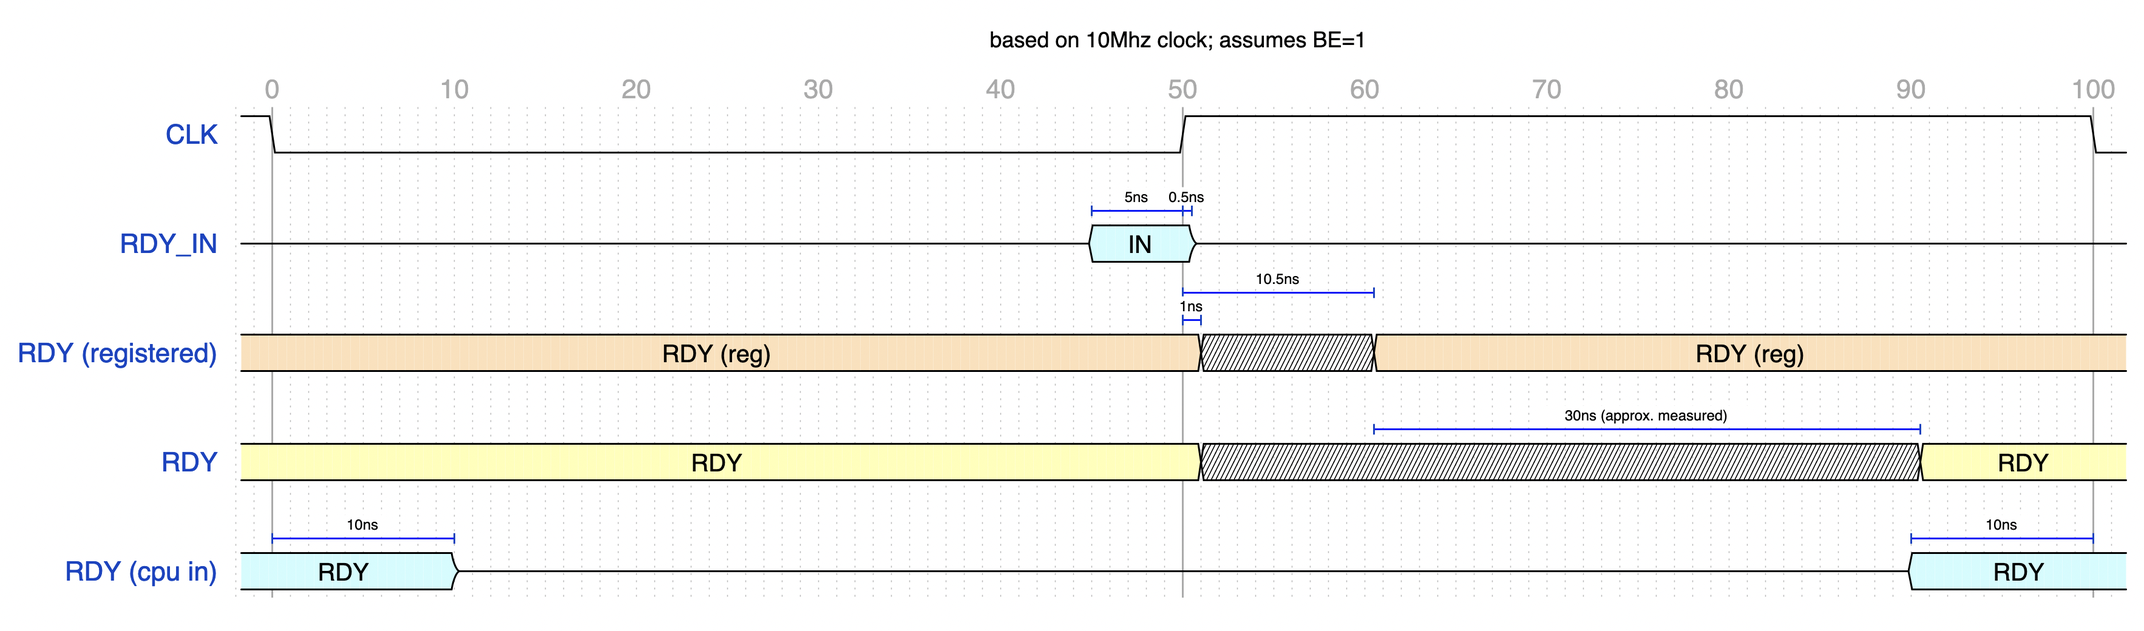
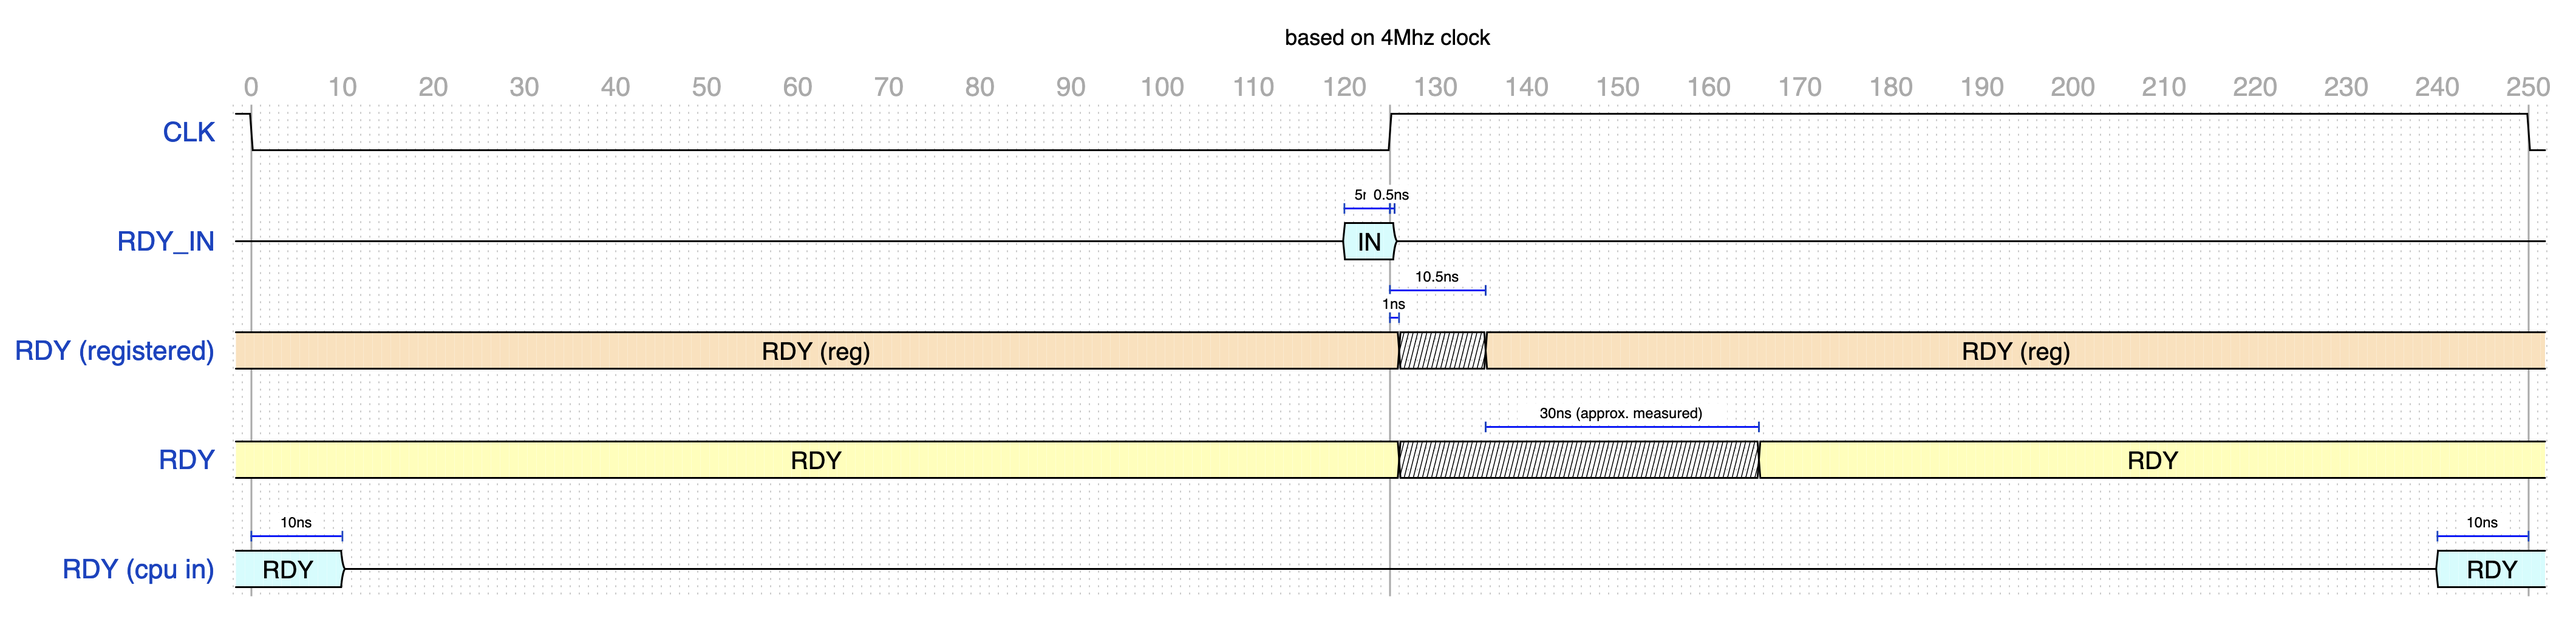
Update RDY timing

diff --git a/README.md b/README.md
@@ -474,15 +474,15 @@ Uses [custom fork](https://github.com/adrienkohlbecker/wavedrom)
 ```js
 {
   signal: [
-    { name: 'CLK', wave: '1.0(50)1(50)0.', phase: 0.20 },
-    { nodes: ['...(45)Ξ(5)Ο(0.5)Ό'], phase: 0.45 },
-    { name: 'RDY_IN', wave: 'z..(45)6(5.5)z(51.5)', data: ['IN'], phase: 0.20 },
-    { nodes: ['...(50)B(10.5)Π', '...(50)E(1)F'], phase: 0.45 },
-    { name: 'RDY (registered)', wave: '4..(51)x(9.5)4(41.5)', data: ['RDY (reg)', 'RDY (reg)'], phase: 0.20 },
-    { nodes: ['...(60.5)Σ(30)I'], phase: 0.45 },
-    { name: 'RDY', wave: '3..(51)x(39.5)3(11.5)', data: ['RDY', 'RDY'], phase: 0.20 },
-    { nodes: ['..Ύ(10)Д(80)Ё(10)Ж'], phase: 0.45 },
-    { name: 'RDY (cpu in)', wave: '6..(10)z(80)6(12)', data: ['RDY', 'RDY'], phase: 0.20 },
+    { name: 'CLK', wave: '1.0(125)1(125)0.', phase: 0.20 },
+    { nodes: ['...(120)Ξ(5)Ο(0.5)Ό'], phase: 0.9 },
+    { name: 'RDY_IN', wave: 'z..(120)6(5.5)z(126.5)', data: ['IN'], phase: 0.20 },
+    { nodes: ['...(125)B(10.5)Π', '...(125)E(1)F'], phase: 0.9 },
+    { name: 'RDY (registered)', wave: '4..(126)x(9.5)4(116.5)', data: ['RDY (reg)', 'RDY (reg)'], phase: 0.20 },
+    { nodes: ['...(135.5)Σ(30)I'], phase: 0.9 },
+    { name: 'RDY', wave: '3..(126)x(39.5)3(86.5)', data: ['RDY', 'RDY'], phase: 0.20 },
+    { nodes: ['..Ύ(10)Д(230)Ё(10)Ж'], phase: 0.9 },
+    { name: 'RDY (cpu in)', wave: '6..(10)z(230)6(12)', data: ['RDY', 'RDY'], phase: 0.20 },
   ],
   edge: [
     'Ξ+Ο 5ns', 'Ο+Ό 0.5ns',
@@ -491,17 +491,17 @@ Uses [custom fork](https://github.com/adrienkohlbecker/wavedrom)
     'Ύ+Д 10ns', 'Ё+Ж 10ns',
   ],
   config: {
-    skin: 'narrower',
+    skin: 'narrowerer',
     lines: {
       offset: 2,
-      every: 50
+      every: 125
     },
     background: 'white'
   },
   head: {
     tick: -2,
     every: 10,
-    text: ['tspan', { "font-size": '12px' }, 'based on 10Mhz clock; assumes BE=1']
+    text: ['tspan', { "font-size": '12px' }, 'based on 4Mhz clock']
   }
 }
 ```
